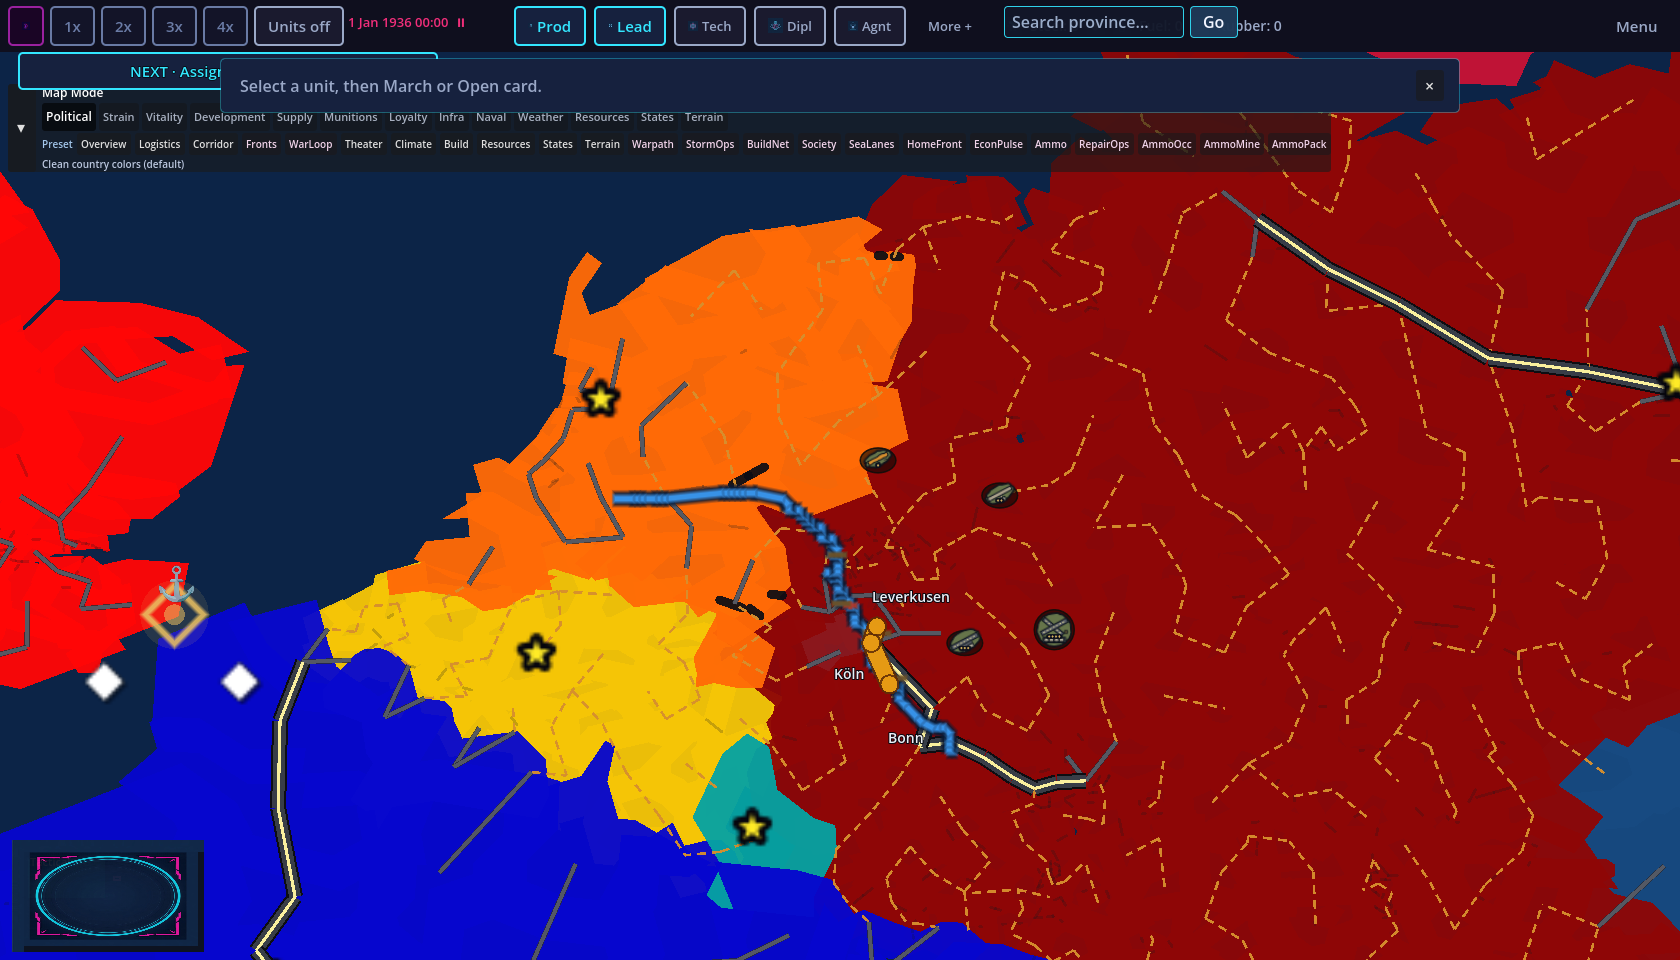
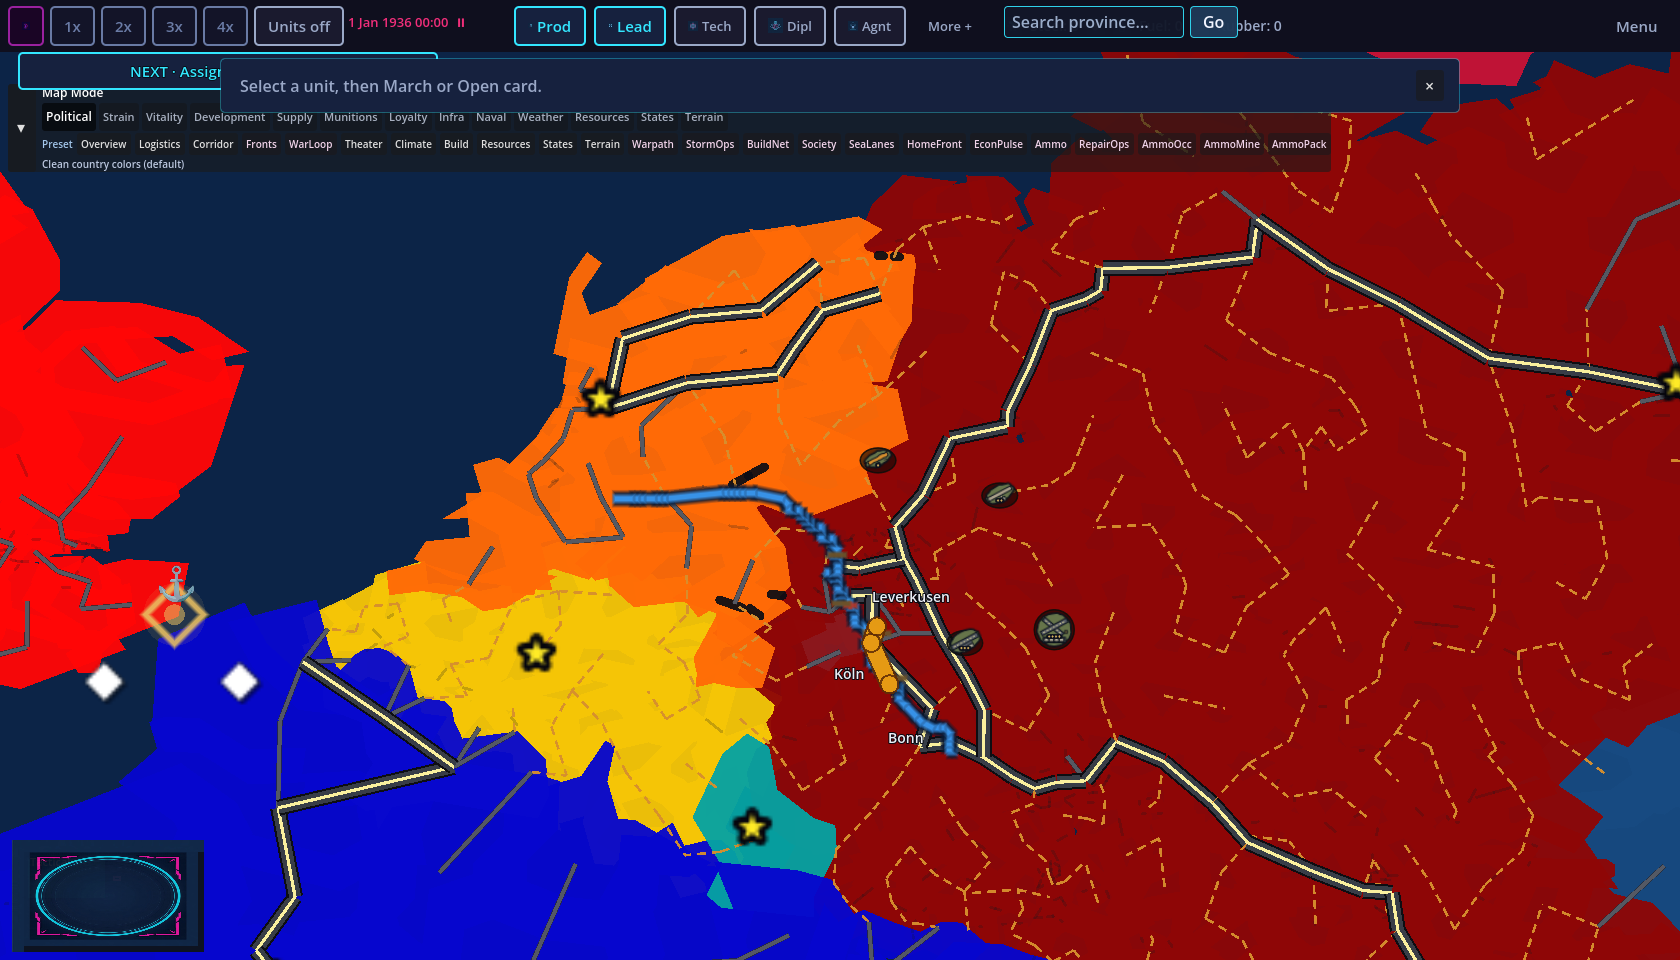
HWY-3 FIX #1: record connected-corridor bars and Ruhr shots
HeadlessHwy3 114/9/0/median 8.00 (Munich + Essen, GER one tree).
Pixel far 14 / default 12 / close 29; wide Germany 13 hub-route
runs. Independent H3 kills zigzag_ok and hook_back. HOLD merge.

bc-id: bc-4f78464a-135b-5628-a690-6317f3153d86

diff --git a/docs/GAME_STATUS_SNAPSHOT.md b/docs/GAME_STATUS_SNAPSHOT.md
@@ -31,7 +31,7 @@ Every Cursor / Grok / human session on this tree:
 | **GitHub** | `origin/main` @ `497731dd` (GS-1 gold spine KEEP). **RT-1** readable road tiers is a **draft** slice — **HOLD merge**. Do not force-push over June Cursor history. |
 | **RX-1 Rhine Crossing** | Vector Rhine Bonn→Köln→Düsseldorf→Duisburg. Units on top (labels 18 < river 22 / roads 21 < joined gold spine 23 < counters 28); theater-scale + screen-space; view-only **Units** HUD + **U**. Pixel guard xvfb continuity **FAIL** `dbbdef4` (mid 0.222/12px, close 0.125/42px) / **PASS** tip (1.000/0 both zooms); units ON chip 0.932 over spine. HOLD merge on the continuity slice. |
 | **RT-1 road tiers** | Visual only (intact). Main `94295fc` Play **PASS** (PR 59). **RT-1b** draft **gold-only**: mid gold **28/34** (≥1.8× highway; close stays 16/20). `ProvEdge_` hide + forced `_sync_border_lod` **reverted** after live Play **FAIL** `5c60f366` (sage web; Köln click hit Luxembourg). Tan NUTS cells at mid are **backlog** (borders, needed for pick). xvfb ≠ product Play. HOLD merge. |
-| **HWY-1 / HWY-2 / HWY-3 highways** | Draft **HOLD**. HWY-3 (stacked on #100): hub-to-hub shortest paths, optional urban bonus, simple-path shape. Live **57**/9/0/median **5.00**. Pixel far **22** / default **13** / close **18**, wide Germany **33×9** px. HWY-2 tip was 52/9/0/median 6.00 rank-grow. Shots `docs/evidence/hwy3/`. `select_trunk_edges` / LOD / gold spine / IX-1 / RX-1 **unedited**. **Headless + xvfb, live Play pending.** |
+| **HWY-1 / HWY-2 / HWY-3 highways** | Draft **HOLD**. HWY-3 FIX #1 (stacked on #100): hub-to-hub shortest paths as **one tree per large country** (Kruskal skip + same-tag bridges). Live **114**/9/0/median **8.00**. Munich + Essen on a route. Pixel far **14** / default **12** / close **29**, wide Germany **13** hub-route runs ≥9 px (main → 0). Mutants `zigzag_ok`/`hook_back` killed by independent H3. HWY-2 tip was 52/9/0/median 6.00 rank-grow. Shots `docs/evidence/hwy3/`. `select_trunk_edges` / LOD / gold spine / IX-1 / RX-1 **unedited**. **Headless + xvfb, live Play pending.** |
 | **MV-1 move ETA preview** | Gameplay UI only. Hover own land with a unit selected → dimmer dashed `MarchPreviewLine` + chip before click; commit uses the same `preview_own_land_march` path/ETA. **FIX #2:** left-gesture fully resets on every fresh press and on inspector/Open-fight open+close (Play MIXED `8089bbd4` latch). Plain click on a different own counter switches; selected unit's own chip area / empty own land commits; Ctrl stays assault. Peak slop latches dragged even if release returns near origin. **MV-1e (CH-1):** non-icon still-click at 4× re-resolves `event.position` — do not commit the stale hover dest (Play: Bad Kreuznach → Hildesheim). Hover/preview update unchanged. Headless preview==commit **PASS**. xvfb pixel + card-up real-input guards **PASS** (not live Play). Map drawing layers **untouched**. `_try_open_land_unit_at_world` fallback **untouched**. **HOLD merge** until live Play. |
 | **RH-1 resource glyphs** | Draft **HOLD**. Coal/oil/etc. HudIconLibrary glyphs draw only on F9 `resources`. Political/diplomacy/other modes keep `show_resource_icons=false`. Current icon art unchanged (new coal PNGs later). Headless `HeadlessRh1ResourceGlyphMapModeTest` + xvfb `tools/eoa_rh1_pixel_guard.sh` (Ruhr/Essen zoom ≥ 0.5) — **NOT live Play**. Roads/borders/tiers untouched. |
 | **FAC-1a airfield icons** | Draft **HOLD**. Default board **`world_accurate`**. FIX #7: circle hit only for L4 art; L1–L3 clusters use oval+ring. Press/release pick uses `event.position`. Seeds unchanged: **Borken `710430` L1 / Warendorf `710434` L2 / Ober `710423` L3 / Siegen-Wittgenstein `710451` L4**. Isolated xvfb_fac1a **PASS** stale_lag=true clustervar=true · seeded RX-1 ON/OFF mid_river **0.749 / 0.749**. xvfb ≠ live Play. |

diff --git a/docs/TESTING_PLAN.md b/docs/TESTING_PLAN.md
@@ -978,9 +978,9 @@ Pixel: `WindowedRt1RoadTierPixelGuard` measures the **fixed** `710412–710424` 
 
 ### HWY-3 hub-route display highways (draft HOLD)
 
-Display highways are **trunk shortest paths between hubs** (capitals, largest cities, significant ports). Urban-district neighbour count is an **optional weight** only. Rank-and-grow stays as a fallback for synthetic Part A (no hub records) and as the `rank_grow_back` mutant. Each accepted route is a **simple path** (no repeated vertex, no >150° hook-back, length ≤1.6× hub chord, zigzag ≤1.5π per 6 edges). Budget still ~4% of inferred trunk (52 ±15%), 0 singletons, median ≥4. Far highways keep casing/core + 20 px floor so the wide Germany frame shows routes; dirt/paved stay culled.
+Display highways are **trunk shortest paths between hubs** (capitals, largest cities, significant ports). Urban-district neighbour count is an **optional weight** only. Rank-and-grow stays as a fallback for synthetic Part A (no hub records) and as the `rank_grow_back` mutant. Each accepted route is a **simple path** (no repeated vertex, no >150° hook-back, length ≤1.6× hub chord, zigzag ≤1.5π per 6 edges). FIX #1 paints one tree per large country; budget is **2× of 52** (60–114). 0 singletons, median ≥4. Far highways keep casing/core + 20 px floor so the wide Germany frame shows routes; dirt/paved stay culled.
 
-Guard `HeadlessHwy3HubRouteTest` H1–H6 + named mutants (`rank_grow_back`, `no_capitals`, `urban_required`, `zigzag_ok`, `hook_back`, `not_shortest`, `far_hidden`, `flip_max`, `pid_list`). Wired as `launch_hwy3_hub_route`. **FAIL** on d4a3a1ff (5: pid_list / flip_max / H1 rank-grow / H2 empty) / **PASS** on tip (57/9/0/median 5.00, Köln+Ruhr, H6 −3.613 ms). Pixel: **one fixed orientation** (`HWY3_FIXED_ORIENTATION=1`), hub-route pair `710425–710460`, far **22** / default **13** / close **18**, wide-Germany **33** runs ≥9 px. Shots `docs/evidence/hwy3/`. `select_trunk_edges` / `road_tier_for_edge` / seed 193601 **unedited**. **HOLD merge.**
+Guard `HeadlessHwy3HubRouteTest` H1–H6 + named mutants (`rank_grow_back`, `no_capitals`, `urban_required`, `zigzag_ok`, `hook_back`, `not_shortest`, `far_hidden`, `flip_max`, `pid_list`). Wired as `launch_hwy3_hub_route`. **FAIL** on d4a3a1ff (5: pid_list / flip_max / H1 rank-grow / H2 empty) / **PASS** on tip (114/9/0/median 8.00, Munich+Essen+GER tree, H6 −2.913 ms). H3 uses **independent** turn/repeat/length math plus a trap adjacency (forcing product `zigzag`/`hook`/`repeat` false fails H3). Pixel: **one fixed orientation** (`HWY3_FIXED_ORIENTATION=1`), hub-route pair `710401–710412`, far **14** / default **12** / close **29** (ceilings 26/18, pair screen ±28). Wide-Germany counts highway-coloured runs **on hub-route segments only** (**13** ≥9 px; main/d4a3 → 0). Shots `docs/evidence/hwy3/`. `select_trunk_edges` / `road_tier_for_edge` / GameData == d4a3a1ff **unedited**. **HOLD merge.**
 
 ### RX-1 Rhine Crossing (Phase B draft)
 

diff --git a/docs/CURRENT_STATE.md b/docs/CURRENT_STATE.md
@@ -1,4 +1,4 @@
-> **2026-10-15 HWY-3 hub routes (HOLD merge):** Stacked on HWY-2 `#100` `d4a3a1ff` (`cursor/hwy3-hub-routes-3d86`). Display highways are k-NN+MST **shortest paths between hubs** (capital ≫ tier/pop/industrial ≫ port ≫ optional urban-district bonus). No pid whitelist. Each route is a simple path. Live 1936: **57** highways, **9** components, **0** singletons, median **5.00**, **109** hubs, **11** routes (Köln–Frankfurt and Berlin–Hamburg among them). Guard `HeadlessHwy3HubRouteTest` **FAIL** on d4a3a1ff (rank-grow) / **PASS** on tip. Pixel: one fixed orientation, pair `710425–710460`, far **22** / default **13** / close **18**, wide Germany **33** runs ≥9 px. `--quick` 14 known reds; map_qc NE **0.9853**. Seed 193601 / `select_trunk_edges` / LOD / gold spine / IX-1 / RX-1 **unedited**. **Headless + xvfb, live Play pending.**
+> **2026-10-15 HWY-3 FIX #1 hub-route trees (HOLD merge):** Stacked on HWY-2 `#100` `d4a3a1ff` (`cursor/hwy3-hub-routes-3d86`). Display highways are k-NN+MST **shortest paths between hubs**, Kruskal skip-if-connected so each large country is **one corridor** (GER tree includes Berlin, Köln, Munich, Essen). Independent H3 shape math (not `path_shape_report`) kills `zigzag_ok`/`hook_back`. Live 1936: **114** highways, **9** components, **0** singletons, median **8.00**, **140** hubs, **24** routes (2×52 cap). Guard `HeadlessHwy3HubRouteTest` **FAIL** on d4a3a1ff / **PASS** on tip. Pixel: one fixed orientation, pair `710401–710412`, far **14** / default **12** / close **29**, wide Germany **13** hub-route runs ≥9 px (main/d4a3 → 0). `--quick` 14 known reds; map_qc NE **0.9853**. GameData md5 `8c1d5e9f` ×3 == d4a3a1ff. `select_trunk_edges` / LOD / gold spine / IX-1 / RX-1 **unedited**. **Headless + xvfb, live Play pending.**
 >
 > **2026-10-15 HWY-2 corridors (HOLD merge):** Same branch as HWY-1 (`cursor/hwy1-highway-chains-80dc`). Chains grow to max 6 (min 3) along **endpoints** after the first 3 so a heavy hub walks a corridor instead of a star; continuation may use typical trunk weight (≥7) so NUTS3 ~10.1 hops can join a seeded chain (dirt tails ~2 stay out). Leftover budget extends existing corridor endpoints. Same ~4% budget. Live 1936: **52** highways, **9** components, **0** singletons, median **6.00**, assign **−6.588 ms** vs legacy. Ruhr Köln–Dortmund **not** ranked by 1936 weights (no pid whitelist). Casing far **12** / mid **12** / close **16** (opaque); far stroke floors at 20 screen px. Pixel guard **fixed** `710412–710424` (no shopping; <8 fails): far **40** / default **17** / close **20**. Shots `docs/evidence/hwy2/`. `select_trunk_edges` / LOD / gold spine / IX-1 / RX-1 / province IDs **unedited**. **Headless + xvfb, live Play pending.**
 >

diff --git a/docs/evidence/hwy3/README.md b/docs/evidence/hwy3/README.md
@@ -1,14 +1,14 @@
 # HWY-3 hub-route highways (draft HOLD)
 
-Stacked on HWY-2 `#100` `d4a3a1ff`. Display highways are trunk shortest paths between hubs (capitals, largest cities, significant ports). Urban-district neighbour count is an optional weight. Not live Play.
+Stacked on HWY-2 `#100` `d4a3a1ff`. Display highways are trunk shortest paths between hubs (capitals, largest cities, significant ports). FIX #1 paints **one connected tree per large country** (Kruskal skip-if-connected + same-tag bridges). Urban-district neighbour count is an optional weight. Not live Play.
 
 | File | Zoom | Notes |
 |------|------|--------|
-| `ruhr_koln_mid.png` | default 1.80 | Hub-route corridors vs HWY-2 zigzags. |
+| `ruhr_koln_mid.png` | default 1.80 | Connected GER corridor: Ruhr–Köln and east–west spine. |
 | `ruhr_koln_close.png` | close 3.20 | Casing vs fills; gold spine Bonn–Köln–Leverkusen. |
 | `ruhr_koln_far.png` | far 0.32 | Europe/Home; highways on, dirt/paved culled. |
-| `wide_germany.png` | far ~0.34 | Germany bbox; 33 highway runs ≥9 px. |
-| `ruhr_koln_mid_highway.png` / `ruhr_koln_close_highway.png` | same | Pixel-guard highway-band captures. |
+| `wide_germany.png` | far ~0.34 | Germany bbox; **13** hub-route highway runs ≥9 px (main/d4a3 → 0). |
+| `ruhr_koln_mid_highway.png` / `ruhr_koln_close_highway.png` / `ruhr_koln_far_highway.png` | same | Pixel-guard highway-band captures. |
 | `ruhr_koln_*_hwy2.png` | same | HWY-2 `#100` comparison shots. |
 
-Pixel: one fixed orientation (`HWY3_FIXED_ORIENTATION=1`, flipped=false), hub-route sample pair by rule (nearest non-spine highway to Köln = `710425–710460`). Bars far **22** / default **13** / close **18** (mins 9 / 12 / 16). Wide Germany **33** runs ≥9 px.
+Pixel: one fixed orientation (`HWY3_FIXED_ORIENTATION=1`, flipped=false), hub-route sample pair by rule (nearest non-spine highway to Köln = `710401–710412`). Bars far **14** / default **12** / close **29** (mins 9 / 12 / 16; ceilings 26 / 18). Wide Germany **13** hub-route runs ≥9 px. HeadlessHwy3 **114**/9/0/median **8.00**, Munich + Essen on a route, GER one tree.
